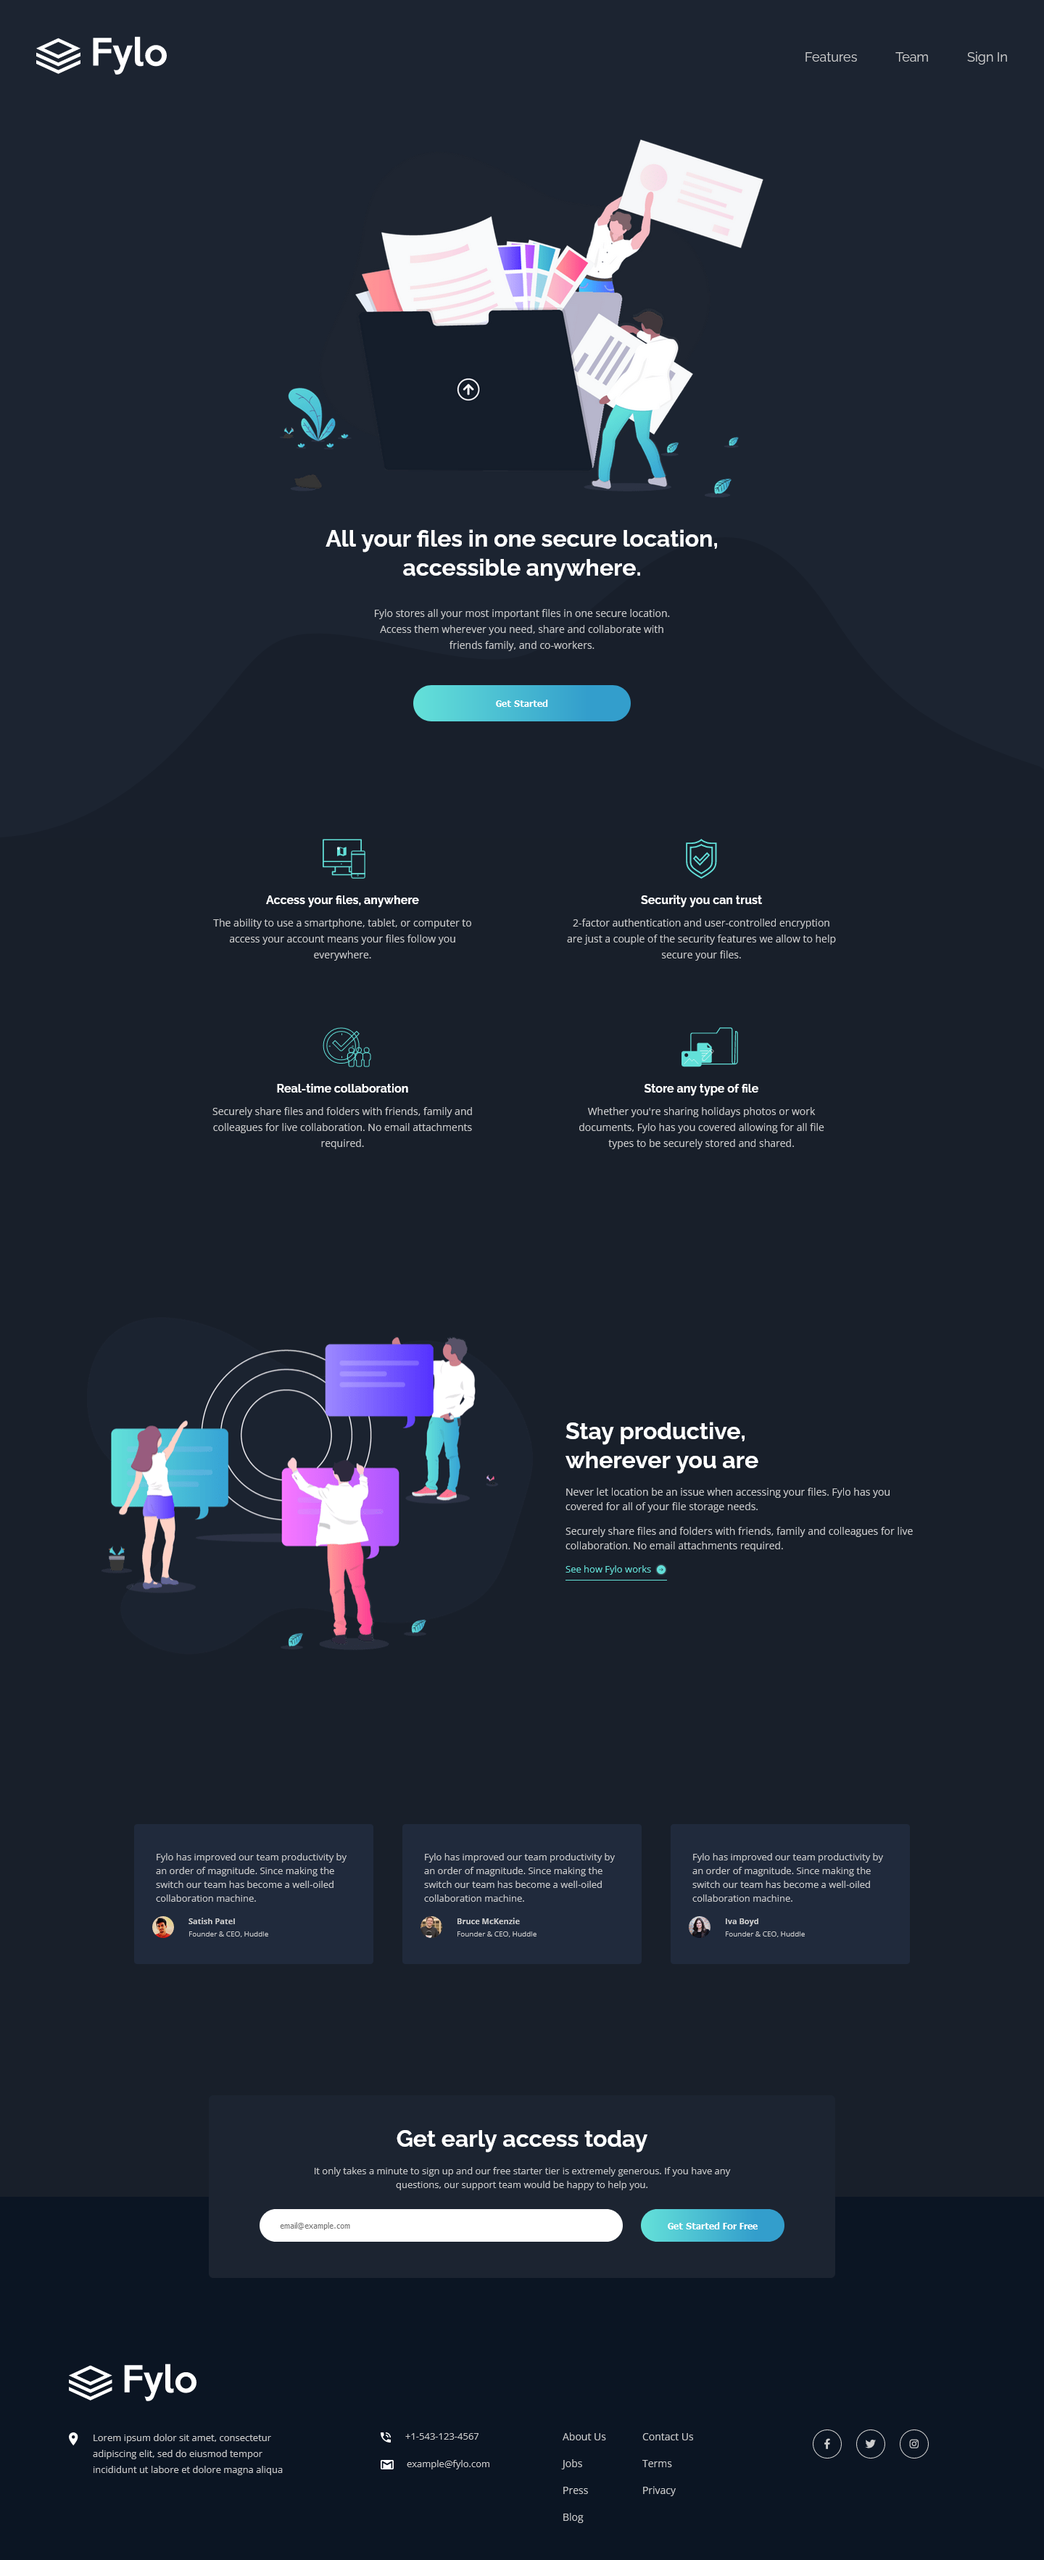
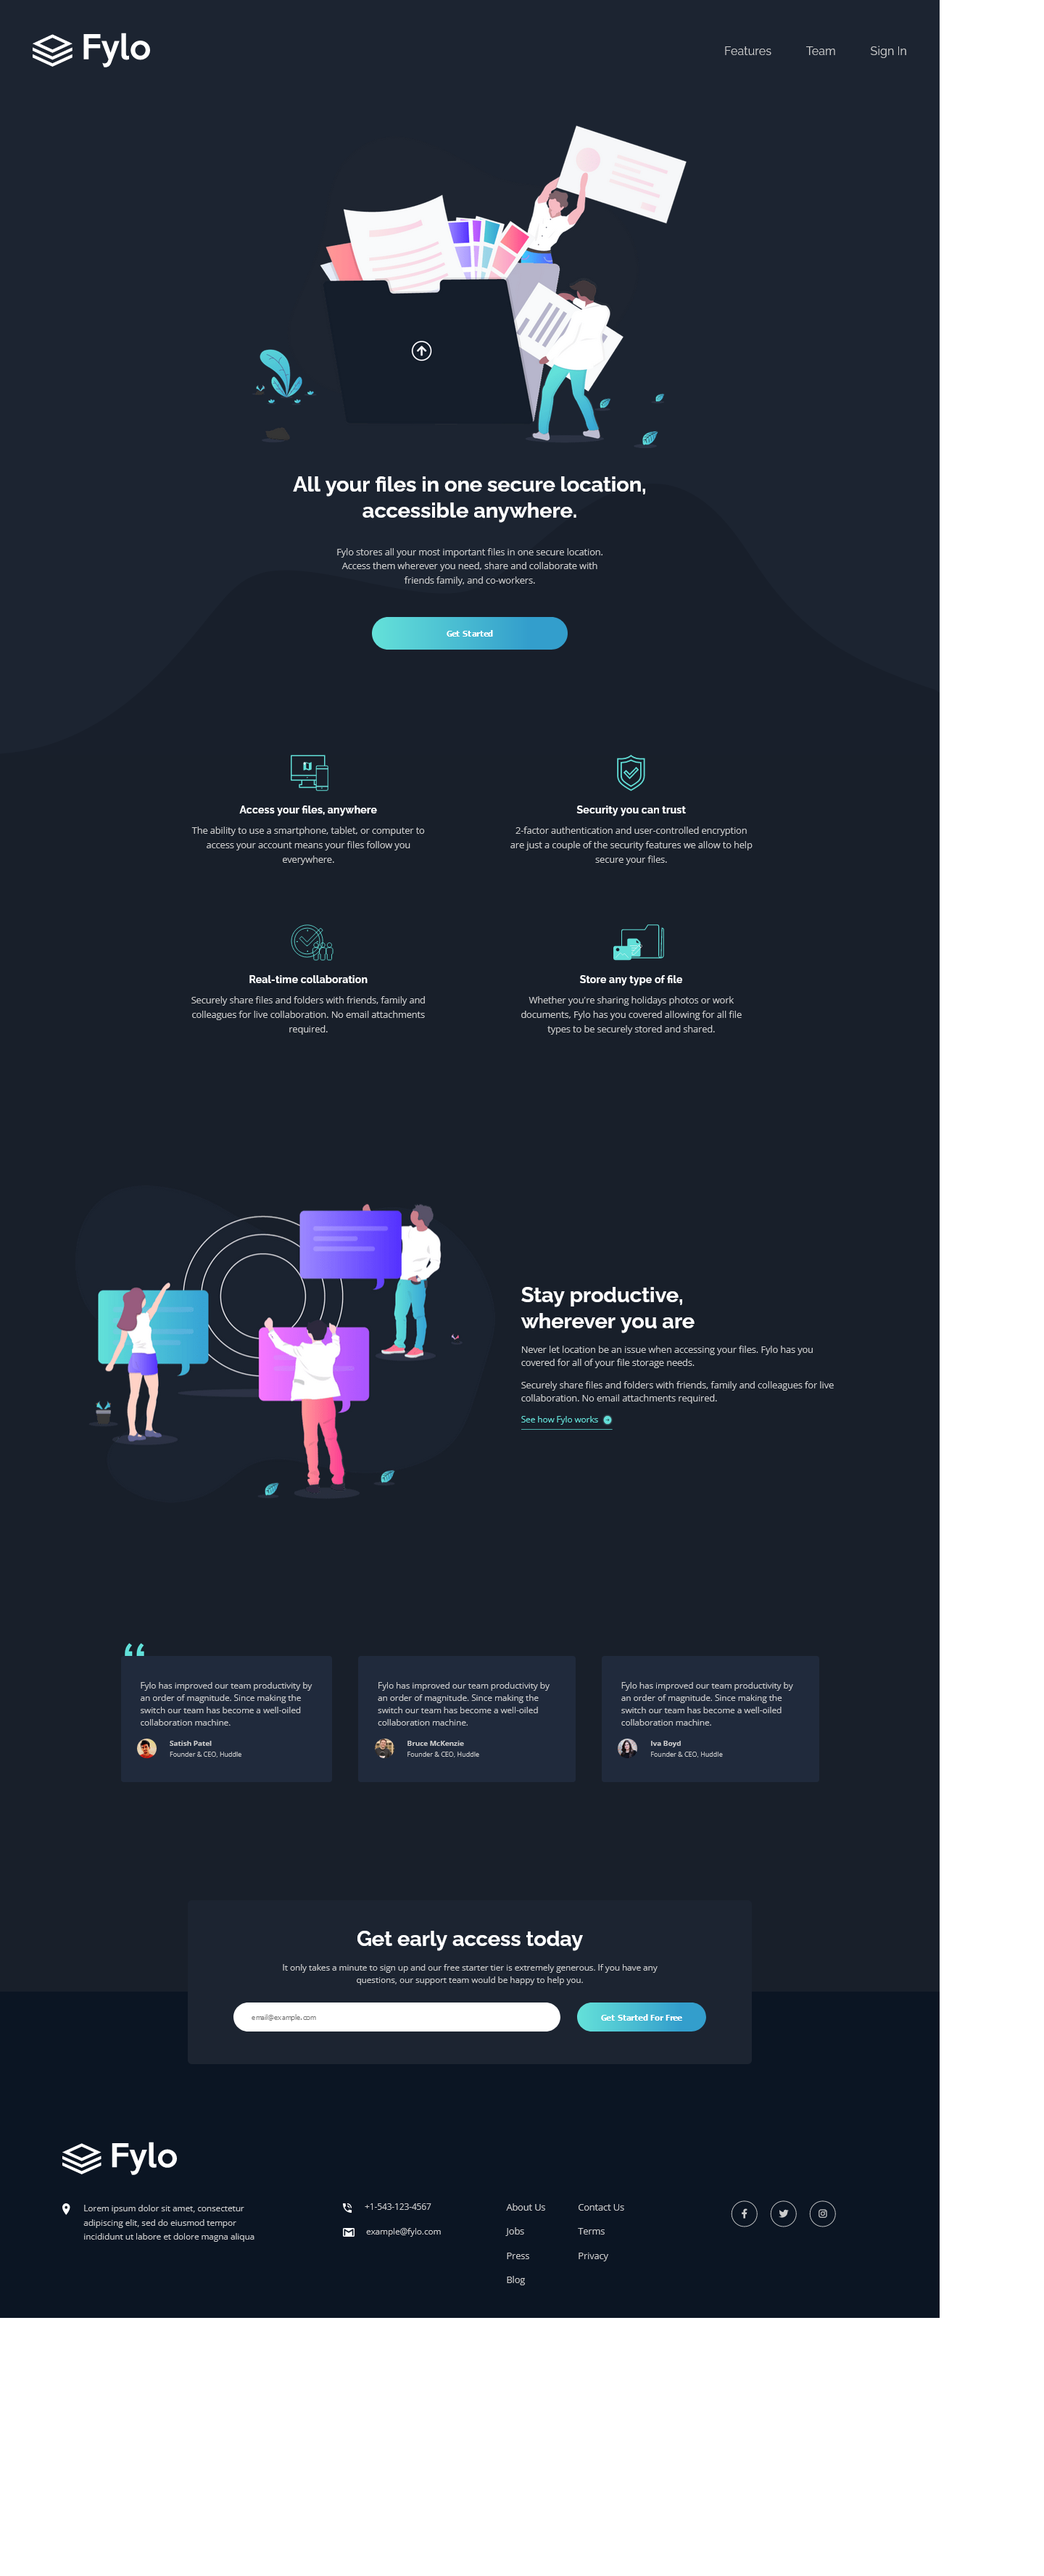
only js left

diff --git a/index.html b/index.html
@@ -111,17 +111,23 @@
       <section class="section-tree">
 
         <!-- !===card-1=== -->
-        <div class="section-tree__card1 card">
-          <p class="card__main-paragraph">Fylo has improved our team productivity by an order of magnitude. Since making the switch our team has become a well-oiled collaboration machine.</p>
 
-          <div class="card__user">
-            <div class="card__user-img-container">
-              <img src="/images/profile-1.jpg" alt="">
-            </div>
+        <div class="fake-container">
 
-            <div class="card__user-text">
-              <p class="card__user-text--name">Satish Patel</p>
-              <p class="card__user-text--title">Founder & CEO, Huddle</p>
+          <img class="quotes" src="/images/bg-quotes.png" alt="">
+
+          <div class="section-tree__card1 card">
+            <p class="card__main-paragraph">Fylo has improved our team productivity by an order of magnitude. Since making the switch our team has become a well-oiled collaboration machine.</p>
+  
+            <div class="card__user">
+              <div class="card__user-img-container">
+                <img src="/images/profile-1.jpg" alt="">
+              </div>
+  
+              <div class="card__user-text">
+                <p class="card__user-text--name">Satish Patel</p>
+                <p class="card__user-text--title">Founder & CEO, Huddle</p>
+              </div>
             </div>
           </div>
         </div>
@@ -170,7 +176,11 @@
         <p>It only takes a minute to sign up and our free starter tier is extremely generous. If you have any questions, our support team would be happy to help you.</p>
 
         <form action="">
-          <input type="text" placeholder="email@example.com">
+          <div class="input-container">
+            <input type="text" placeholder="email@example.com">
+            <span class="error">Please enter a valid email address!</span>
+            <span class="thanks">Thank you, you have been successfully registered!</span>
+          </div>
           <button>Get Started For Free</button>
         </form>
       </section>

diff --git a/CSS/style.css b/CSS/style.css
@@ -389,6 +389,7 @@ main .section-tree {
     grid-template-columns: auto auto;
     grid-template-rows: auto auto;
     justify-items: center;
+    justify-content: center;
   }
   main .section-tree .section-tree__card1 {
     grid-column: 1/2;
@@ -417,6 +418,23 @@ main .section-tree {
   main .section-tree .card p {
     padding: 0 5px;
     font-size: 1.3rem;
+  }
+}
+main .section-tree .fake-container {
+  position: relative;
+}
+main .section-tree .fake-container .quotes {
+  width: 30px;
+  position: absolute;
+  top: -20px;
+  left: 6px;
+}
+main .section-tree .fake-container .section-tree__card1 {
+  position: relative;
+}
+@media (min-width: 1280px) {
+  main .section-tree .fake-container .section-tree__card1 {
+    min-width: 324px;
   }
 }
 main .section-tree .card {
@@ -454,6 +472,11 @@ main .section-tree .card__user-text .card__user-text--title {
   margin-top: 3px;
   font-size: 1rem;
 }
+@media (min-width: 1280px) {
+  main .section-tree__card2, main .section-tree__card3 {
+    min-width: 324px;
+  }
+}
 
 footer {
   padding: 230px 35px 50px 35px;
@@ -476,6 +499,22 @@ footer {
   top: -160px;
   right: 25px;
   left: 25px;
+}
+.floating-section .input-container {
+  display: flex;
+  flex-direction: column;
+}
+.floating-section .input-container .error {
+  margin-top: 8px;
+  padding-left: 20px;
+  color: hsl(0, 100%, 63%);
+  text-align: left;
+}
+.floating-section .input-container .thanks {
+  margin-top: 8px;
+  padding-left: 20px;
+  color: hsl(176, 68%, 64%);
+  text-align: left;
 }
 @media (min-width: 768px) {
   .floating-section {
@@ -514,6 +553,7 @@ footer {
   color: hsl(0, 0%, 100%);
   font-weight: 600;
   font-size: 1.2rem;
+  align-self: flex-start;
 }
 .floating-section form button:hover {
   cursor: pointer;
@@ -525,8 +565,11 @@ footer {
     align-items: center;
     gap: 25px;
   }
-  .floating-section form input {
+  .floating-section form .input-container {
     width: 70%;
+  }
+  .floating-section form .input-container input {
+    width: 100%;
     height: 45px;
   }
   .floating-section form button {

diff --git a/Sass/layout/_main.sass b/Sass/layout/_main.sass
@@ -138,6 +138,7 @@ main
             grid-template-columns: auto auto
             grid-template-rows: auto auto
             justify-items: center
+            justify-content: center
 
             .section-tree__card1
                 grid-column: 1 / 2
@@ -148,7 +149,6 @@ main
                 grid-column: 2 / 3
                 grid-row: 1 / 2
                 
-
             .section-tree__card3 
                 width: 50%
                 grid-column: 1 / 3
@@ -166,7 +166,22 @@ main
             .card p
                 padding: 0 5px
                 font-size: 1.3rem
-                
+
+        .fake-container
+            position: relative
+
+            .quotes
+                width: 30px
+                position: absolute
+                top: -20px
+                left: 6px
+        
+            .section-tree__card1
+                position: relative
+
+                @include m.large
+                    min-width: 324px
+
         .card
             padding: 35px 25px
             background-color: v.$Dark-Blue-testimonials
@@ -203,6 +218,11 @@ main
             .card__user-text--title
                 margin-top: 3px
                 font-size: 1rem
+
+    .section-tree__card2, .section-tree__card3 
+        @include m.large
+            min-width: 324px
+
         
 
         

diff --git a/Sass/layout/_footer.sass b/Sass/layout/_footer.sass
@@ -20,6 +20,24 @@ footer
     right: 25px
     left: 25px
 
+    .input-container
+        display: flex
+        flex-direction: column
+
+        .error
+            margin-top: 8px
+            padding-left: 20px
+            color: v.$Light-Red
+            text-align: left
+
+        .thanks
+            margin-top: 8px
+            padding-left: 20px
+            color: v.$Cyan
+            text-align: left
+            
+        
+
     @include m.medium
         margin: 0 auto
         width: 70%
@@ -53,6 +71,7 @@ footer
             color: v.$White
             font-weight: 600
             font-size: 1.2rem
+            align-self: flex-start
 
             &:hover
                 cursor: pointer
@@ -63,9 +82,12 @@ footer
             align-items: center
             gap: 25px
 
-            input
+            .input-container
                 width: 70%
-                height: 45px
+
+                input
+                    width: 100%
+                    height: 45px
 
             button
                 margin-top: 0
